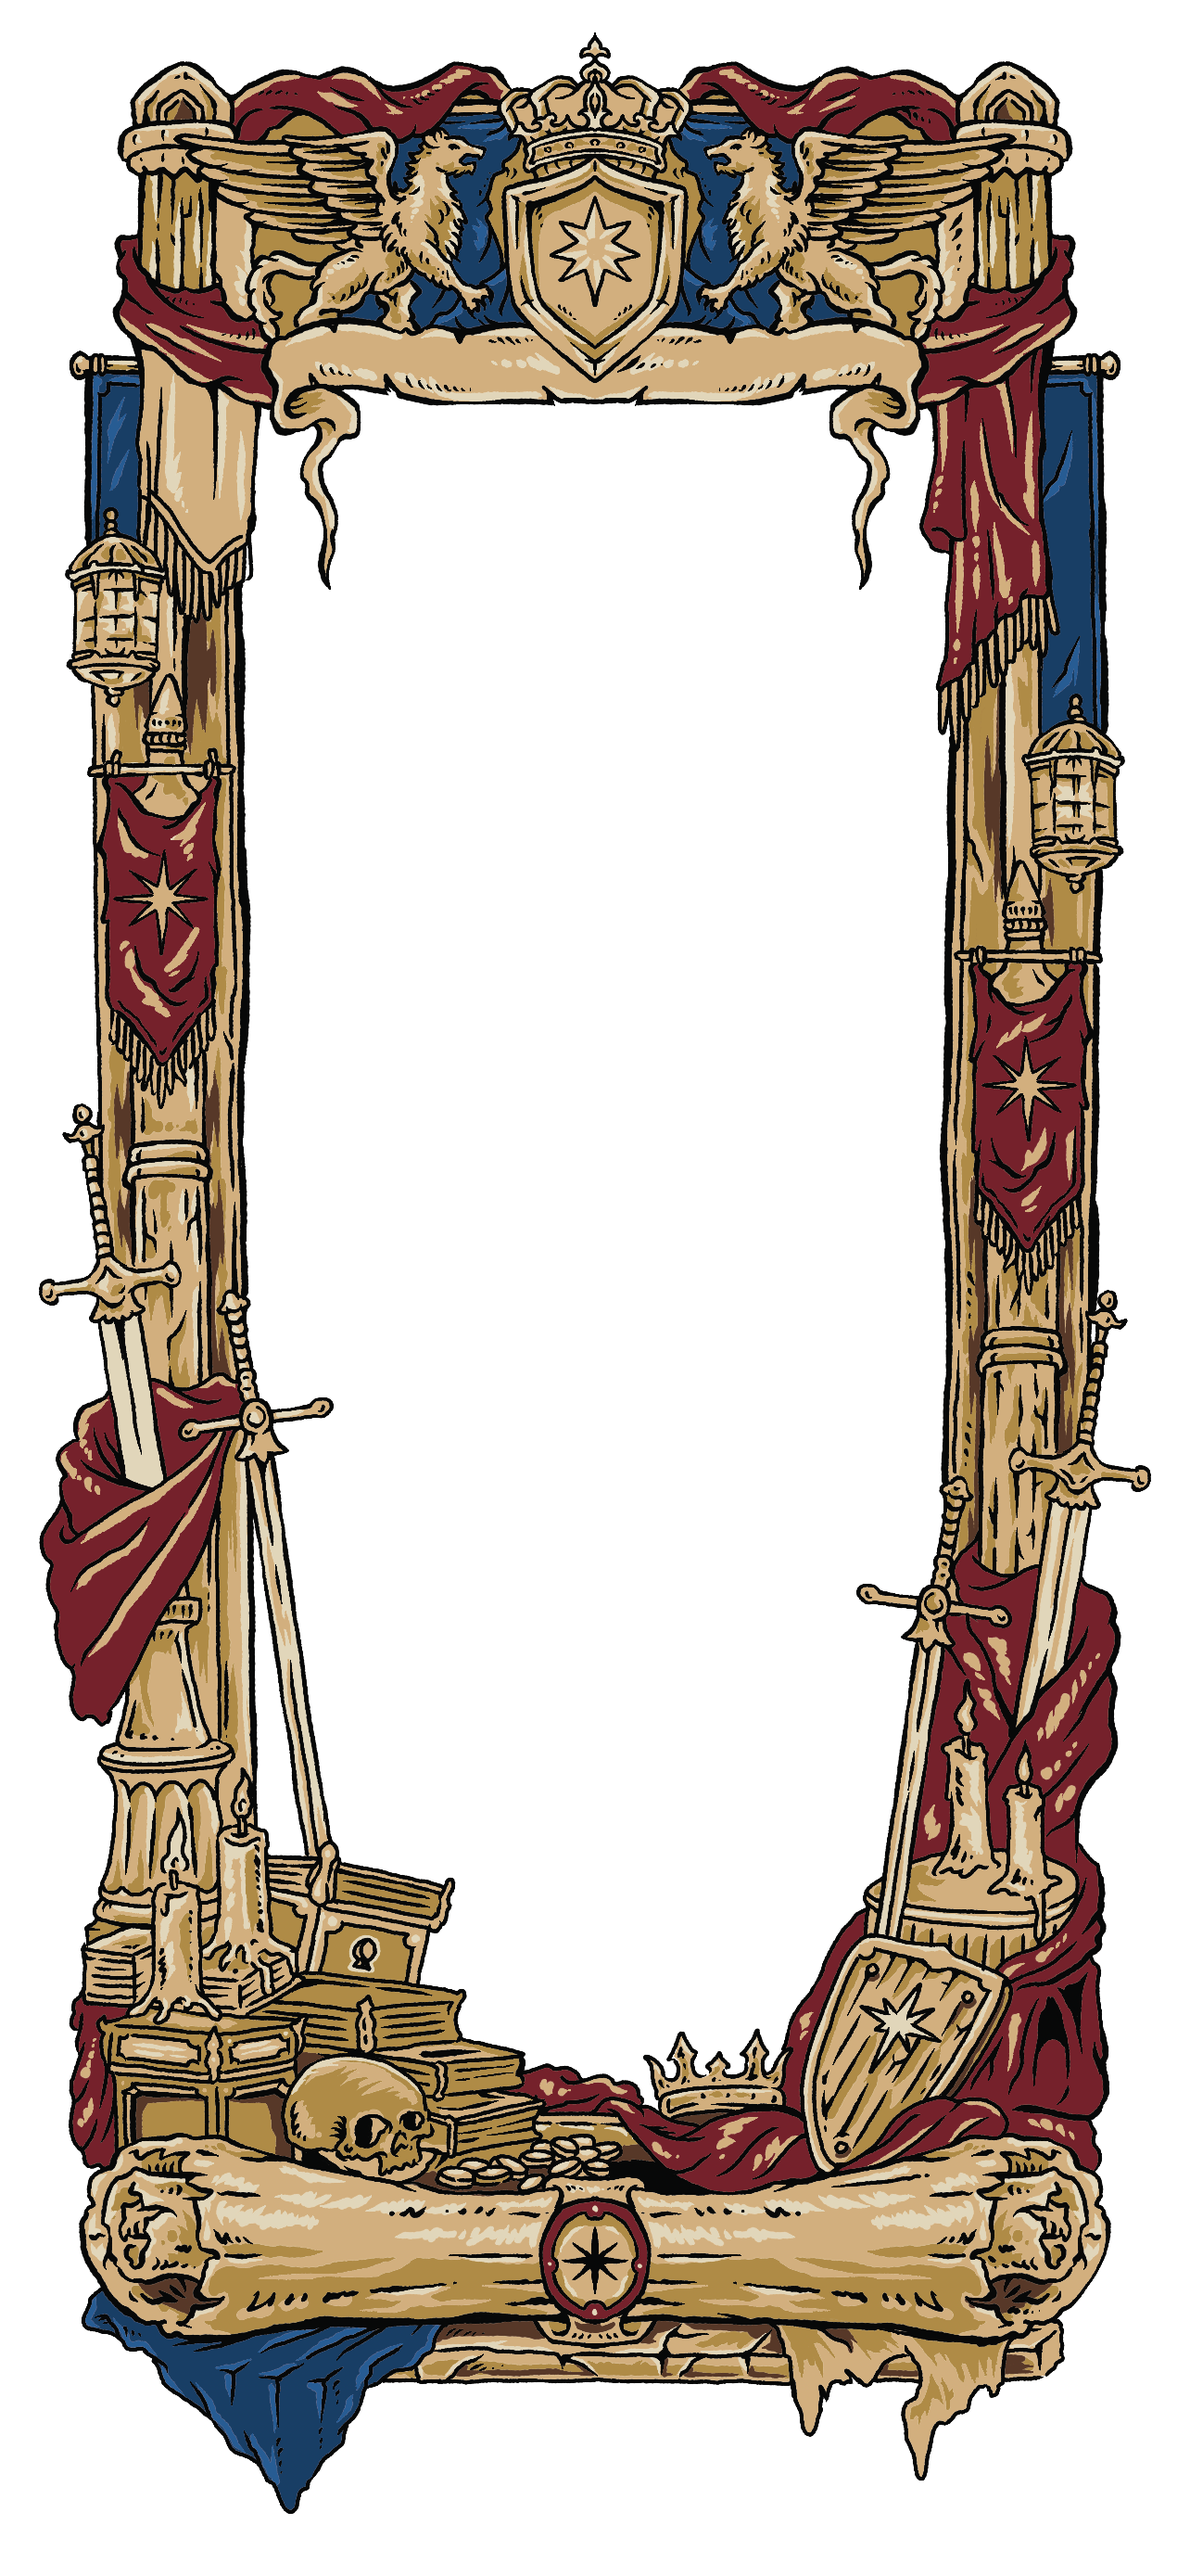
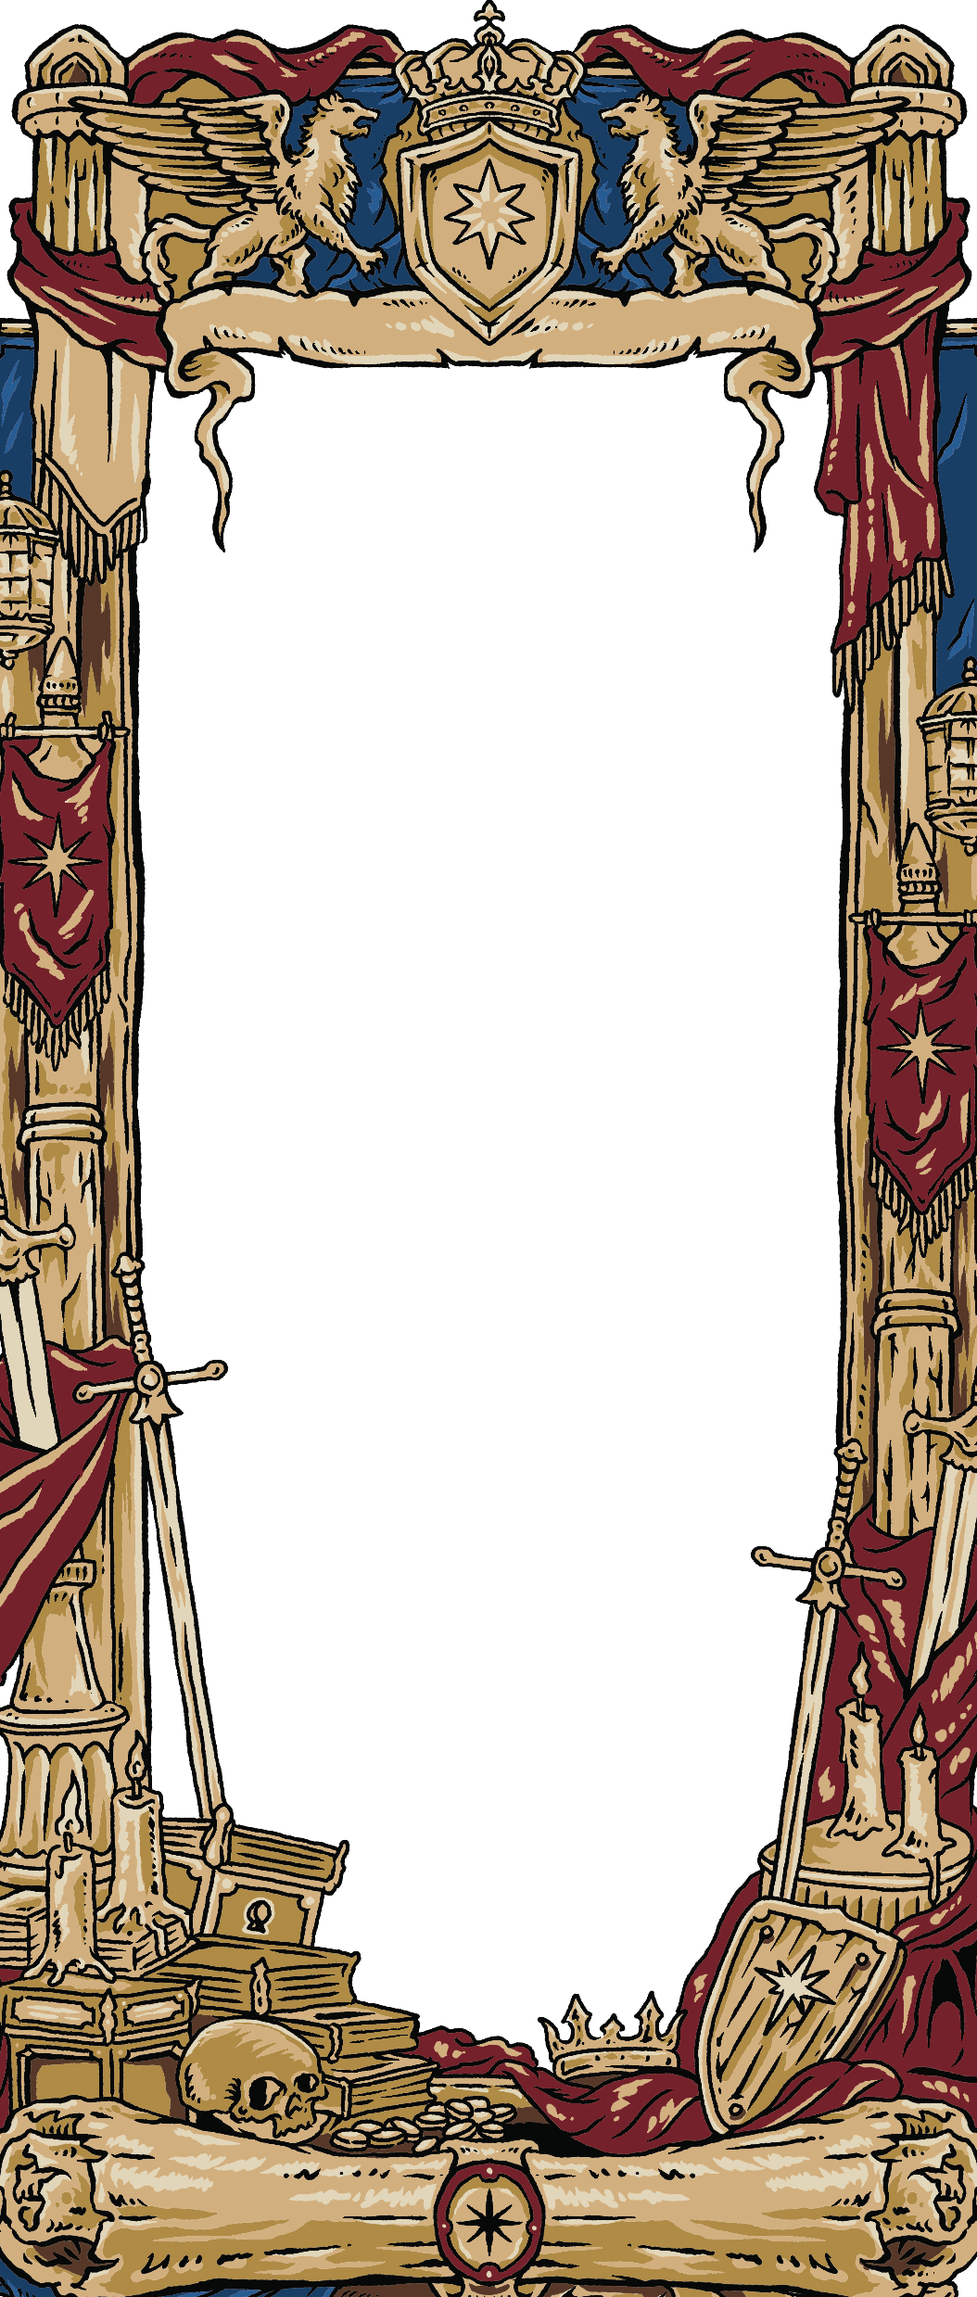
Replace Hall frame art and refit its layout zones
New crest-and-pillars frame (1054x2478). Title, ranking rows and footer
zones re-measured from the PNG's alpha so content sits inside the opening.

diff --git a/src/components/HallScreen.tsx b/src/components/HallScreen.tsx
@@ -11,18 +11,18 @@ import { BoardRows } from "./QuizRanking";
 import { hallCopy, type HallKind } from "@/lib/quiz/halls";
 
 const FRAME_SRC = "/quiz-scrolls/hall-frame.png";
-/** Native size of the frame art (an iPhone Pro Max screen). */
-const FRAME_W = 1284;
-const FRAME_H = 2778;
+/** Native size of the frame art. */
+const FRAME_W = 1054;
+const FRAME_H = 2478;
 
 /*
  * Clear areas inside the frame art, as % of the frame box. Measured from the
- * PNG's alpha: the ribbon tails narrow the top, a leaning sword narrows the
- * bottom, so the wide middle band holds the rows.
+ * PNG's alpha: the banner's ribbon tails narrow the top, the leaning swords
+ * narrow the bottom, so the wide band between the pillars holds the rows.
  */
-const TITLE_ZONE = { left: "29%", right: "29%", top: "17.4%", bottom: "77.4%" };
-const ROWS_ZONE = { left: "22.5%", right: "22.5%", top: "23.4%", bottom: "46.3%" };
-const FOOT_ZONE = { left: "29.5%", right: "29.5%", top: "55%", bottom: "28.9%" };
+const TITLE_ZONE = { left: "25%", right: "25%", top: "17%", bottom: "76.2%" };
+const ROWS_ZONE = { left: "16.5%", right: "16.5%", top: "24.6%", bottom: "42.6%" };
+const FOOT_ZONE = { left: "25%", right: "22%", top: "60%", bottom: "21.6%" };
 
 interface HallScreenProps {
   open: boolean;
@@ -110,7 +110,7 @@ export default function HallScreen({
           >
             <div
               aria-hidden
-              className="absolute inset-[12%_18%] rounded-[40%] bg-[radial-gradient(ellipse_at_50%_40%,#2e2014_0%,#120c08_75%)]"
+              className="absolute inset-[16%_14%_11%] rounded-[30%] bg-[radial-gradient(ellipse_at_50%_40%,#2e2014_0%,#120c08_75%)]"
             />
             {/* eslint-disable-next-line @next/next/no-img-element */}
             <img
